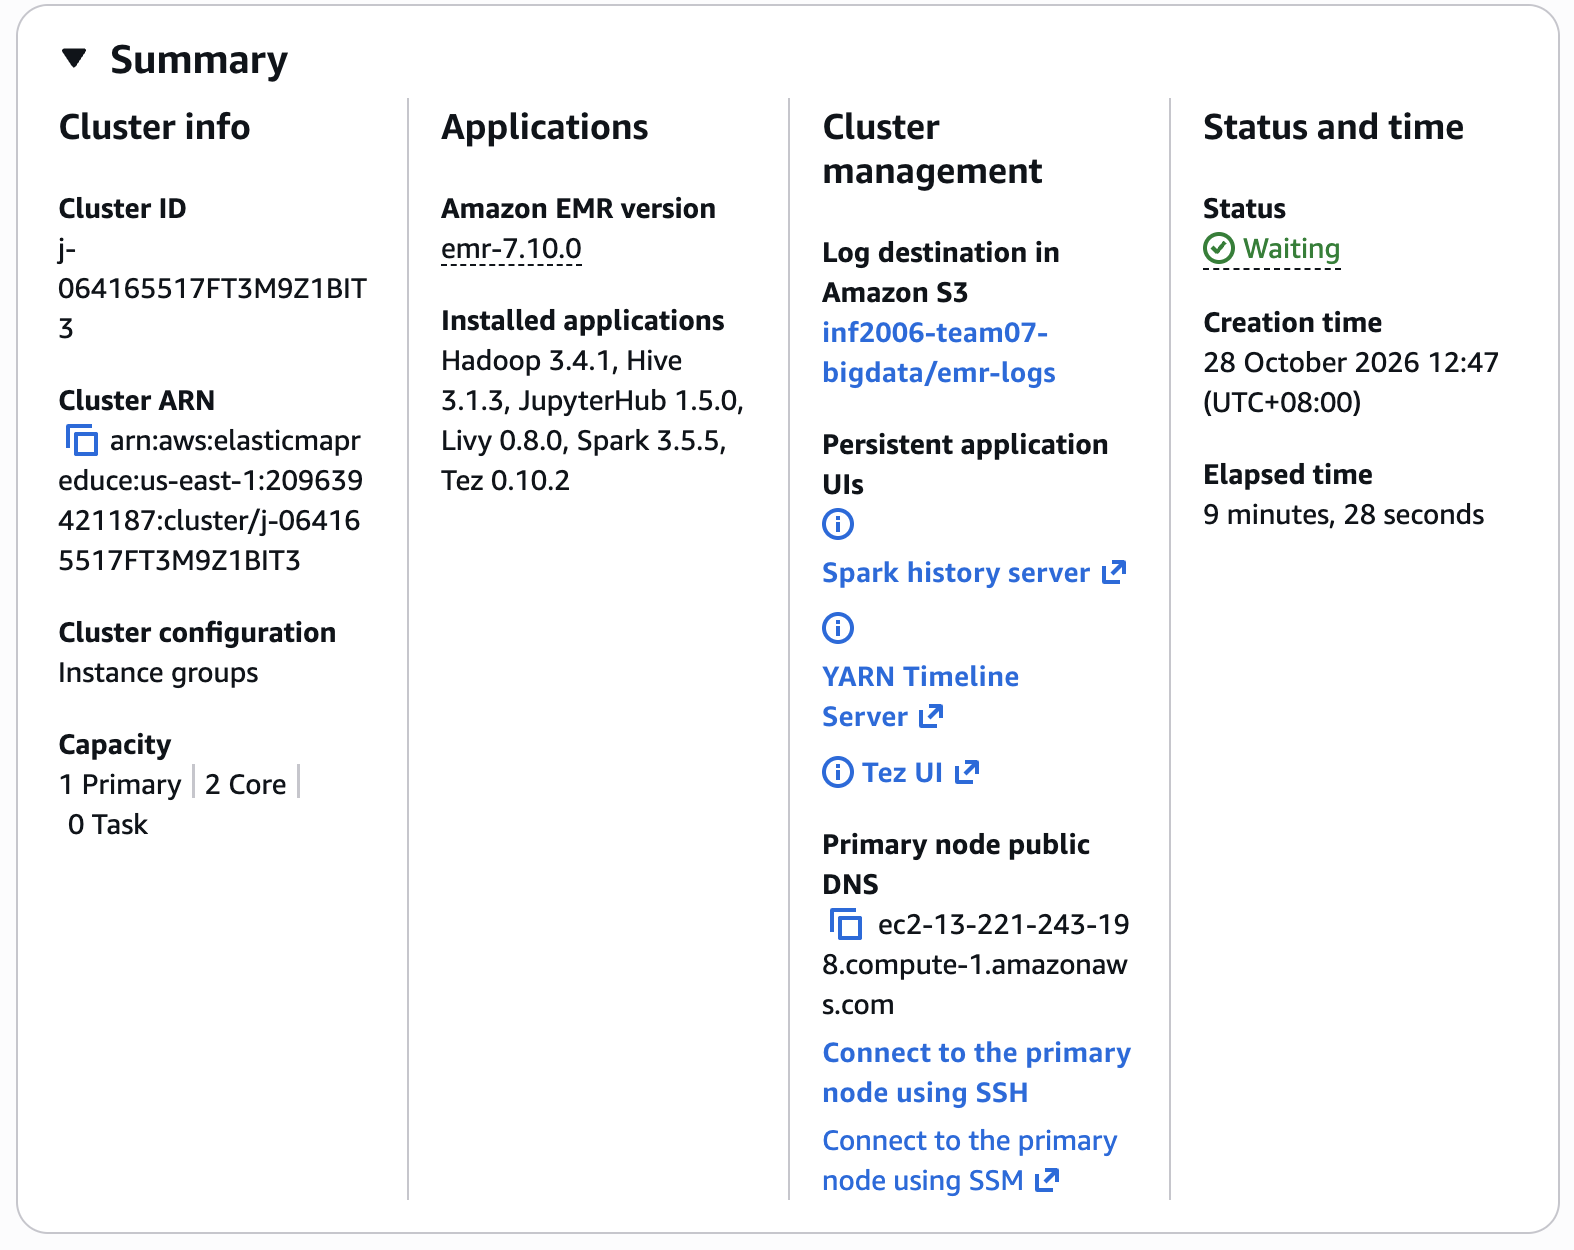
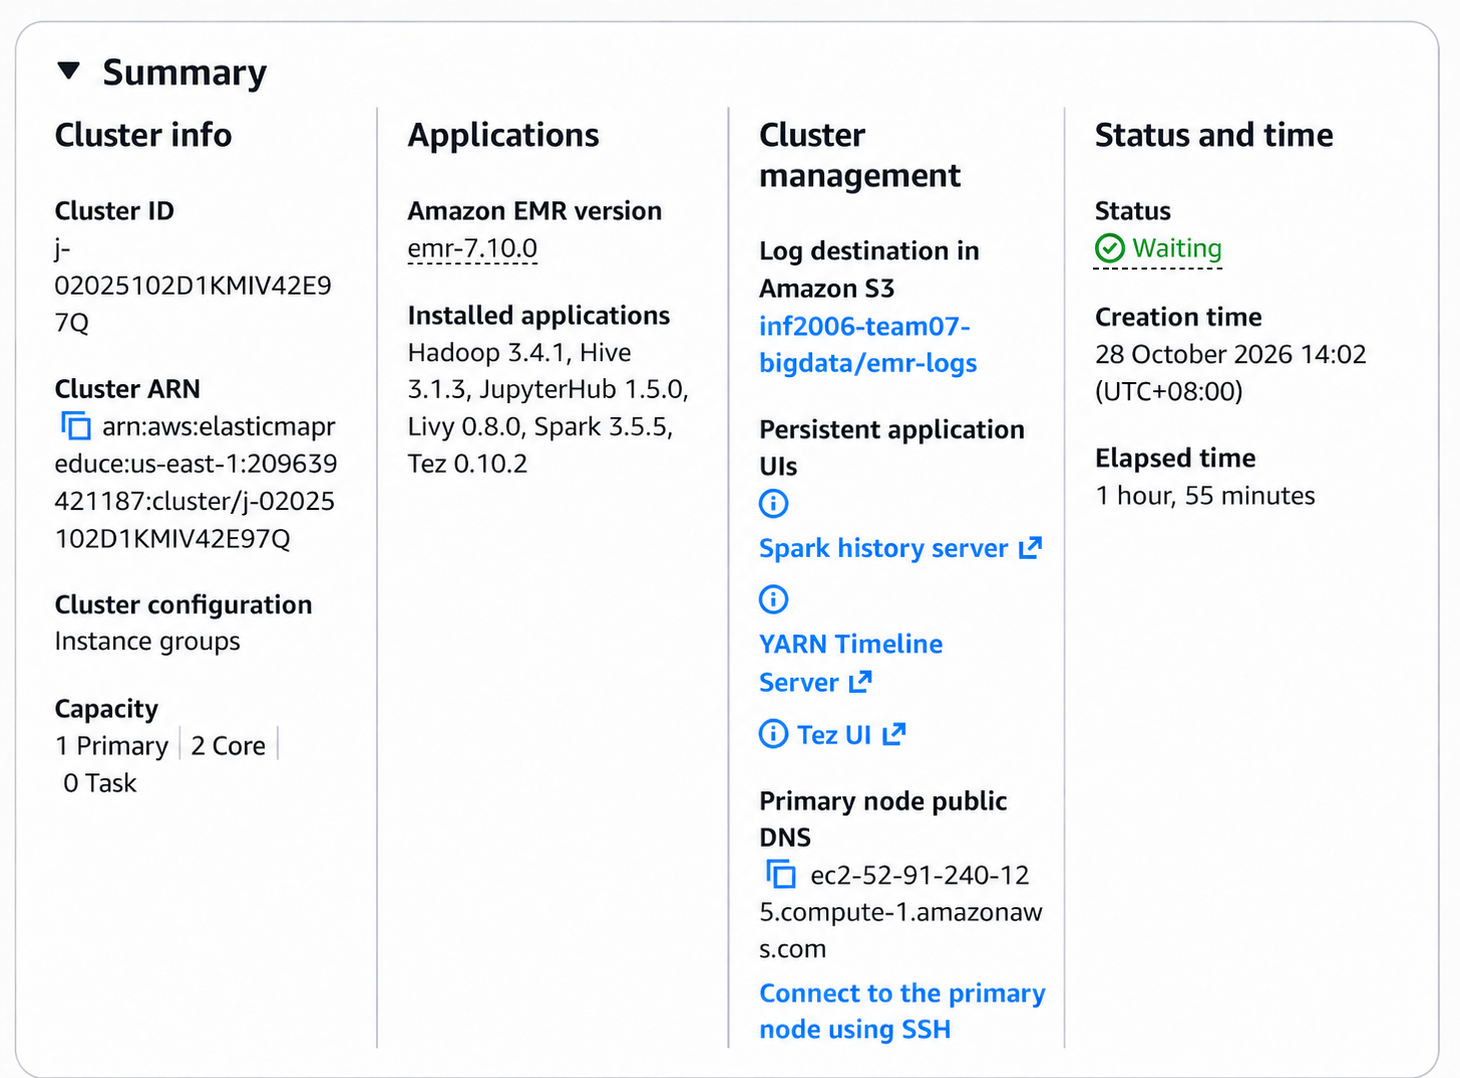
Updated Stage 1 EMR setup documentation and corrected screenshot 1

Changed region(s): [[0.0, 0.0918, 0.9863, 1.0], [0.0308, 0.0, 0.9863, 0.7347], [0.2774, 0.0918, 0.4623, 0.4592]]

diff --git a/docs/stage1_emr_setup.md b/docs/stage1_emr_setup.md
@@ -1,38 +1,87 @@
 # Stage 1 — EMR cluster and raw corpus in HDFS
 
-Goal: a running EMR cluster with the raw files in HDFS and dated evidence that proves it.
-This document is the first draft of **Appendix A** (EMR setup and rerun guide).
+Goal: establish a running EMR cluster with raw files in HDFS and preserve dated proof of that run.
+This document is an **Appendix A** (EMR setup and rerun guide) working draft populated with the
+historical evidence from the successful 2026-10-28 Stage 1 run.
 
-Reference configuration (from the course Q&A): emr-7.10.0; 1 primary + 2 core m5.xlarge; no task
-nodes, no autoscaling; one 200 GiB gp3 volume (3000 IOPS, 125 MiB/s) per core node; HDFS
-replication 2; Spark 2 executors x 2 cores x 6 GiB.
+**AWS Academy finding (2026-10-28):** The 200 GiB gp3 EBS volume in the provisional
+reference configuration was rejected by the AWS Academy Learner Lab account with a permissions /
+`VALIDATION_ERROR` (failed cluster `j-06371601XD1JEGSGGUW6`). The successful m5.xlarge run used
+EMR **default gp2 storage**, reported as two 32 GiB volumes per core node. This is a **hardware/storage
+deviation**, not a verified match to the reference: gp2 capacity and performance are not equivalent
+to the specified 200 GiB gp3 volume at 3000 IOPS and 125 MiB/s. The small development input fits
+on the observed HDFS capacity; do not claim that the full reference hardware requirement or an
+assessed full-profile run has been met. The project notes say this issue was raised with teaching
+staff; the brief itself is not included in this repository ZIP. Evidence is under
+`evidence/emr_ref_m5xlarge/`.
 
-**AWS Academy finding (2026-10-28):** the Learner Lab account launches m5.xlarge EMR nodes (as in
-Lab 7) but rejected the cluster when a custom 200 GiB gp3 volume (3000 IOPS, 125 MiB/s) was added to
-the core group ("insufficient EC2 permissions" / VALIDATION_ERROR). The assessed cluster therefore
-uses EMR's default instance storage. gp3's baseline performance is already 3000 IOPS / 125 MiB/s, so
-only capacity differs from the reference; the storage estimate in report section 6 shows the chosen
-corpus fits. Brief v1.1 states the reference configuration "has not yet been launched or timed in AWS
-Academy" and is provisional; this rejection has been reported to the teaching team.
-The brief's "justified alternative" must be a software change with hardware fixed, so no second hardware
-profile is used. Evidence folder: `evidence/emr_ref_m5xlarge/`.
+## Recorded setup from the successful Stage 1 run (28 October 2026)
 
-Fill in the blanks below as you go — they become the values in Appendix A.
+These are **historical run details**, not current running-cluster information. The recorded cluster
+was terminated at **2026-10-28 07:58 UTC**; recreate it before a new run. Values marked *documented*
+are setup instructions rather than an independently verified AWS-console property; the region is
+inferred from the successful node hostname and should be checked in the console.
 
-| Item | Value |
-|---|---|
-| Profile (reference m5.xlarge / dev m5.large) | |
-| AWS account | AWS Academy Learner Lab |
-| Core-node storage | EMR default (custom 200 GiB gp3 volume rejected by Academy) |
-| AWS region | |
-| S3 bucket name | |
-| Cluster ID (j-...) | |
-| Cluster created (UTC) | |
-| Cluster "Waiting" at (UTC) | |
-| Primary node public DNS | |
-| Key pair name | |
-| Staging seconds (from stage1_cluster.txt) | |
-| distcp application id | |
+| Item | Recorded value | Where the value comes from |
+|---|---|---|
+| Profile | Reference **m5.xlarge** (1 primary + 2 core, no task; not m5.large dev) | `config/emr/README.md` lines 6–14; `evidence/emr_ref_m5xlarge/stage1_cluster.txt` lines 10–14 |
+| AWS account | AWS Academy Learner Lab | `config/emr/README.md` lines 12, 19–20; original setup notes in this document |
+| EMR release | `emr-7.10.0` | `evidence/emr_ref_m5xlarge/stage1_cluster.txt` line 2 |
+| Core-node storage | EMR default: **2 × 32 GiB gp2 per core**, not the reference 200 GiB gp3 | `evidence/emr_ref_m5xlarge/stage1_notes.txt` line 7; `config/emr/README.md` line 12 |
+| AWS region | **`us-east-1` (consistent with the recorded primary-node DNS; verify the region in the AWS Console for any new run)** | `evidence/emr_ref_m5xlarge/stage1_notes.txt` line 8 records a `compute-1.amazonaws.com` hostname |
+| S3 bucket name | `inf2006-team07-bigdata` | `evidence/emr_ref_m5xlarge/stage1_cluster.txt` line 3; `stage1_distcp.log` line 1 |
+| Cluster ID | `j-02025102D1KMIV42E97Q` | `evidence/emr_ref_m5xlarge/stage1_cluster.txt` line 1; `stage1_notes.txt` line 2 |
+| Cluster created (UTC) | `2026-10-28 06:02 UTC` | `evidence/emr_ref_m5xlarge/stage1_notes.txt` line 5 |
+| Cluster **Waiting** (UTC) | `2026-10-28 06:09 UTC` | `evidence/emr_ref_m5xlarge/stage1_notes.txt` line 6 |
+| Primary node public DNS | `ec2-52-91-240-125.compute-1.amazonaws.com` | `evidence/emr_ref_m5xlarge/stage1_notes.txt` line 8 |
+| Key pair name | `vockey` (**documented setup; console verification not saved**) | `config/emr/README.md` line 20; setup instructions in section B below |
+| Staging start (UTC) | `2026-10-28 06:14:18 UTC` | `evidence/emr_ref_m5xlarge/stage1_cluster.txt` line 6 |
+| Staging end (UTC) | `2026-10-28 06:15:02 UTC` | `evidence/emr_ref_m5xlarge/stage1_cluster.txt` line 7 |
+| Staging duration (excluded from assessed 60 minutes) | **44 seconds** | `evidence/emr_ref_m5xlarge/stage1_cluster.txt` line 8; `stage1_notes.txt` line 10 |
+| DistCp YARN application ID | `application_1793167721813_0001` | `evidence/emr_ref_m5xlarge/stage1_cluster.txt` line 5; `stage1_distcp.log` line 25 |
+| HDFS replication | **2** | `evidence/emr_ref_m5xlarge/stage1_cluster.txt` line 9; `config/emr/cluster_configurations_reference_m5xlarge.json` lines 2–6 |
+| Two core nodes running | **2 × RUNNING** when tested | `evidence/emr_ref_m5xlarge/stage1_cluster.txt` lines 10–14 |
+| Cluster terminated (UTC) | `2026-10-28 07:58 UTC` | `evidence/emr_ref_m5xlarge/stage1_notes.txt` line 13 |
+
+### Verified outcomes and input traceability
+
+- **S3 → HDFS DistCp succeeded:** 8 raw files; **566,303,198 bytes copied**; **44 s** wall-clock staging.
+  Check `evidence/emr_ref_m5xlarge/stage1_distcp.log` lines 40–41, 49–56, and 86–91.
+- **Inputs in HDFS:** 1 price file at `/raw/prices/v2026-10-27/all_stocks_5yr.csv`
+  (**29,580,549 bytes**, **619,041 lines including header**), plus seven unzipped GDELT files dated
+  2015-12-01 through 2015-12-07 under `/raw/gdelt/v2026-10-27/`
+  (**536,722,649 bytes**, **1,425,234 event lines**). See
+  `evidence/emr_ref_m5xlarge/stage1_hdfs_inventory.csv` lines 2–9 and
+  `docs/input_profiles.md` lines 6–17.
+- **Byte-for-byte validation:** all **8 of 8** staged HDFS files have the **same size and SHA-256**
+  as the downloaded/unzipped files listed in `evidence/local/inventory.csv` (lines 2–9).
+  The HDFS inventory is `evidence/emr_ref_m5xlarge/stage1_hdfs_inventory.csv` (lines 2–9).
+  The original download URLs and acquisition timestamps are in
+  `evidence/local/acquisition_log.csv` (lines 2–9) and `config/sources.json`.
+- **Capacity/health:** configured HDFS capacity **124,283,478,016 bytes (115.75 GiB)**,
+  used **1,190,788,240 bytes (1.11 GiB)** at the recorded check, with **zero under-replicated,
+  missing, or corrupt blocks**. See `evidence/emr_ref_m5xlarge/stage1_dfs_report.txt` lines 1–11.
+  This is a snapshot for the small development corpus, **not** proof that the complete workload fits.
+- **Jupyter/PySpark smoke test:** the screenshot
+  `evidence/emr_ref_m5xlarge/screenshots/06_notebook_first_cell.png` shows Spark
+  `3.5.5-amzn-1`, application `application_1793167721813_0002`, and a text-line count of
+  **619,041** for the HDFS price CSV; the application ID is also noted in `stage1_notes.txt` line 12.
+- **Screenshots:** Under `evidence/emr_ref_m5xlarge/screenshots/`, `03_failed_cluster_ebs_error.png`
+  documents the rejected EBS setup; `04_staging_done.png`, `05_hdfs_inventory.png`, and
+  `06_notebook_first_cell.png` document the successful processing. `02_instance_groups.png`
+  shows the one-primary/two-core group layout. The cluster creation, Waiting and termination
+  timestamps are recorded in `stage1_notes.txt`; the DistCp and YARN logs substantiate the
+  data-staging results.
+
+### Still requiring evidence or confirmation
+
+The ZIP does **not** include the course brief itself or a complete EMR configuration export
+independently establishing the cluster's **region, SSH key pair, S3 bucket configuration and
+security-group settings**. The guide below records the intended settings, but some values remain
+documented rather than independently confirmed in the saved logs. The teaching team's acceptance
+of the gp2-vs-gp3 deviation and the **full input profile** also remain unconfirmed
+(`docs/input_profiles.md` lines 19–40). For a future rerun, save the cluster configuration/region,
+instance storage and key pair, S3 object listing, security-group rules and new dated result set.
 
 ---
 
@@ -56,9 +105,15 @@ s3://<bucket>/raw/gdelt/v2026-10-27/...            (one file per downloaded day)
    corpus "distinguishes sources, versions and acquisition dates" (brief, 1.2). Upload the UNZIPPED
    GDELT files: Hadoop reads plain text in parallel but cannot split a .zip.
 
-   Alternative with the AWS CLI (needs the lab's temporary credentials in `~/.aws/credentials`):
-   `aws s3 sync data/raw s3://<bucket>/raw/ --exclude "*" --include "prices/*" --include "gdelt/*"`
-   (then rename into the `v<date>` folders, or upload with the paths above).
+   Alternative with the AWS CLI (requires valid lab credentials configured locally;
+   never commit them):
+
+   ```bash
+   aws s3 sync data/raw/prices/ s3://<bucket>/raw/prices/v2026-10-27/
+   aws s3 sync data/raw/gdelt/ s3://<bucket>/raw/gdelt/v2026-10-27/ --exclude "*.zip"
+   ```
+
+   These commands create the versioned layout expected by the staging and Hive scripts.
 
 3. Verify in the console that the object sizes equal the `bytes` column of `evidence/local/inventory.csv`.
 
@@ -74,8 +129,10 @@ AWS console -> EMR -> Create cluster.
    - Core: m5.xlarge, 2 instances. Do NOT add a custom EBS volume in AWS Academy (it is rejected);
      on a standard account add gp3, 200 GiB to match the Q&A reference.
    - Remove the Task group if one is shown. Do not enable cluster scaling.
-4. **Cluster termination**: turn OFF auto-termination for now (you control it) but set an idle
-   timeout of 1 hour as a safety net.
+4. **Cluster termination**: use **manual termination** (disable auto-termination), consistent with
+   `config/emr/README.md`. If you instead enable an idle auto-termination timeout as a cost
+   safeguard, record that as a separate configuration choice; it is not the same as manual
+   termination. Terminate the cluster promptly at the end of each lab session.
 5. **Software settings / Configurations**: choose "Enter configuration" and paste the contents of
    `config/emr/cluster_configurations_reference_m5xlarge.json`, replacing `REPLACE-WITH-YOUR-BUCKET-NAME` with your
    bucket. What each block does:
@@ -120,7 +177,7 @@ The prompt changes to `[hadoop@ip-... ~]$` — you are now typing on the cluster
 ```
 git clone https://github.com/hengouipui03/Big_Data_Project.git
 cd Big_Data_Project
-bash scripts/stage1_stage_to_hdfs.sh s3://<bucket>/raw /raw evidence/emr_dev_m5large   # or evidence/emr_ref_m5xlarge
+bash scripts/stage1_stage_to_hdfs.sh s3://<bucket>/raw /raw evidence/emr_ref_m5xlarge
 ```
 
 The script: copies S3 -> HDFS with `hadoop distcp` (a MapReduce job, so it gets a YARN application
@@ -137,18 +194,22 @@ Expected results:
 | `hdfs_replication` | 2 |
 | `yarn node -list` | 2 nodes RUNNING |
 
-If every sha256 in `evidence/emr/stage1_hdfs_inventory.csv` matches `evidence/local/inventory.csv`,
-the corpus in HDFS is provably the file the brief links to. That is the Task 1 traceability chain:
-brief link -> download (acquisition_log) -> laptop (inventory) -> S3 -> HDFS (stage1_hdfs_inventory).
+In the recorded 2026-10-28 run, every SHA-256 in
+`evidence/emr_ref_m5xlarge/stage1_hdfs_inventory.csv` matched
+`evidence/local/inventory.csv`. That is the Task 1 traceability chain:
+source URL -> download (`acquisition_log.csv`) -> laptop (`inventory.csv`)
+-> S3 -> HDFS (`stage1_hdfs_inventory.csv`).
 
-Save the evidence back to GitHub from the primary node:
+Preserve the generated evidence before the cluster is terminated. For example, from the
+primary node, copy it to S3:
 
+```bash
+aws s3 cp evidence/emr_ref_m5xlarge/ s3://<bucket>/evidence/emr_ref_m5xlarge/ --recursive
 ```
-git add evidence/emr
-git -c user.name="<name>" -c user.email="<email>" commit -m "Stage 1: EMR staging evidence <cluster id>"
-git push        # needs a GitHub token; alternatively copy the files to S3:
-aws s3 cp evidence/emr s3://<bucket>/evidence/emr/ --recursive
-```
+
+Then download or sync the evidence into your **local** Git clone, review the changed paths,
+and commit/push from that clone. This avoids competing Git commits from the cluster and your
+teammates' working copies. Ensure all submitted evidence is accurately described and traceable.
 
 ## E. Open JupyterHub and run one test cell
 
